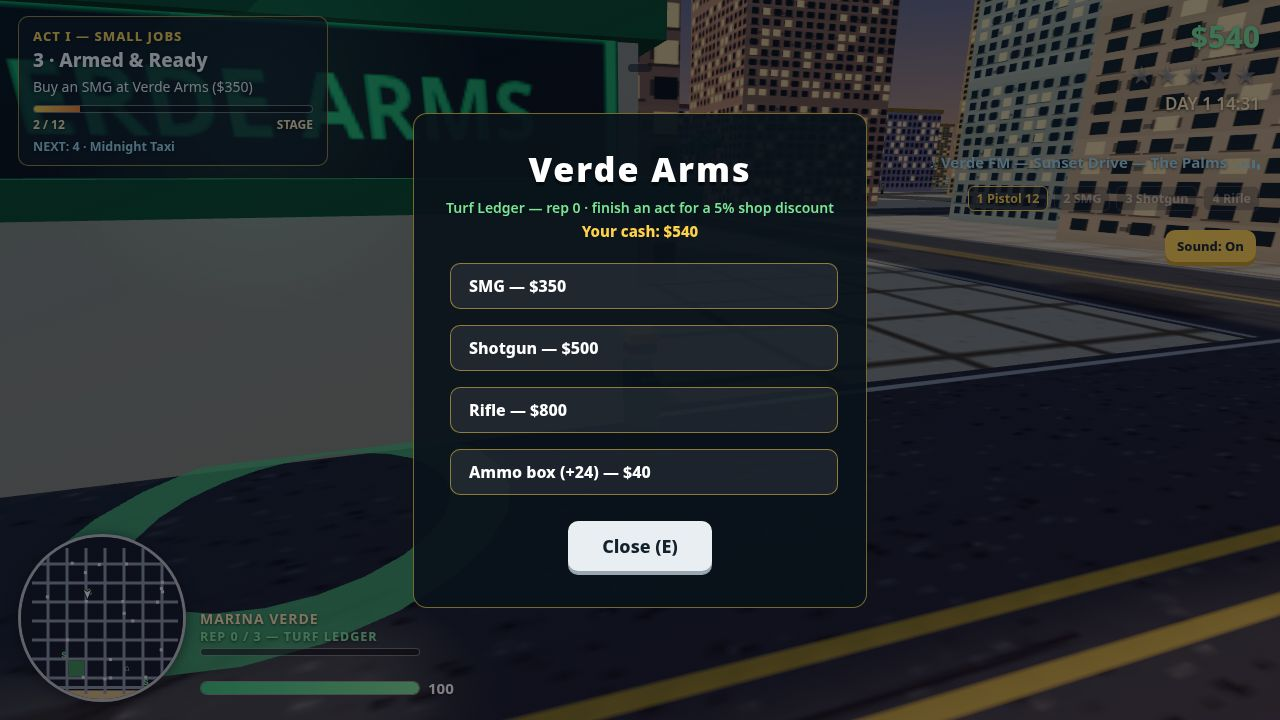
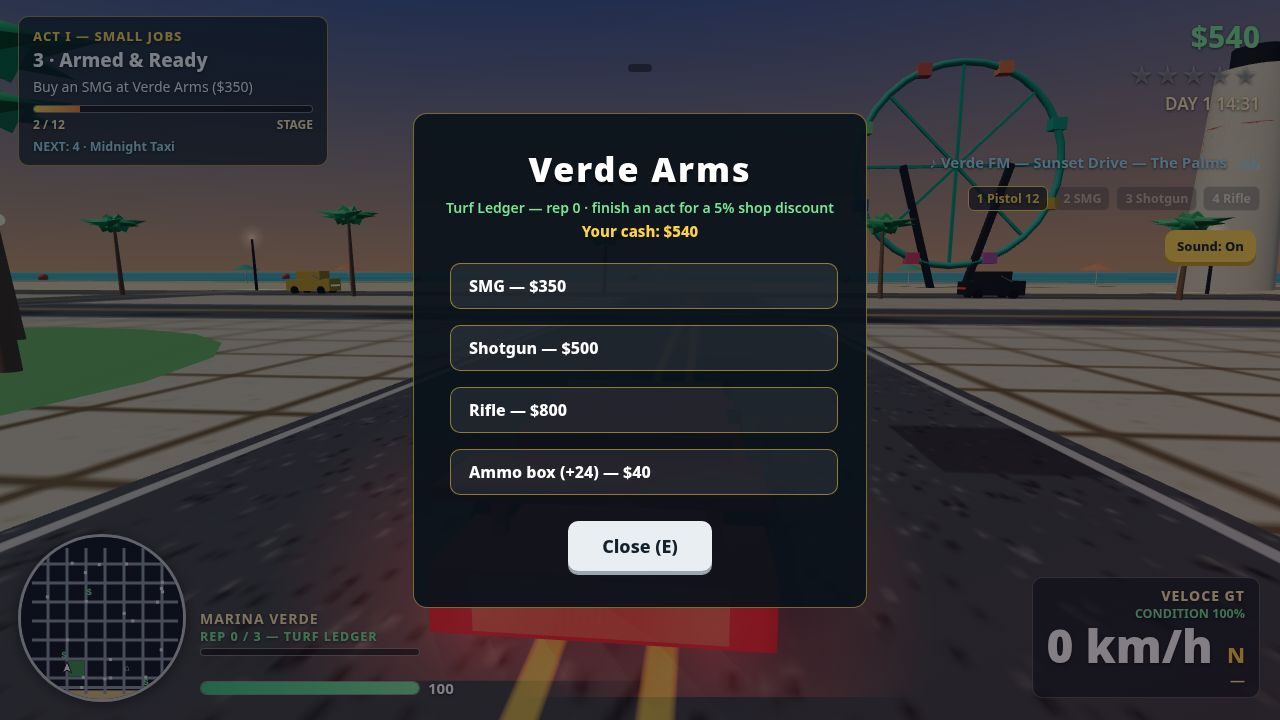
Marina Verde v2: graphics polish round 3 — bright car rear, readable heli, beachfront street with ferris wheel + beach
R1: sport cabin/spoiler/struts reuse per-car bodyMat (repaint follows),
windshield shared glass 0x7896a6; tail bar + halo untouched, no new mesh.
R2: heli body 0x9aa7b0, navy fin 0x1c2733, staged closer (orbit radius
18, height 10) so body + skids + nav light read instead of a black blob.
R3: street staging moved to beachfront road x=-104 heading south (the
wheel faces N/S — heading west would be edge-on); ferris wheel + beach
read past the Verde Arms panel (rim top 54px above panel top, arc +
gondolas + legs + sand/water/umbrellas visible; mission 3, $540, Verde
FM kept). All staging/camera only in ?shot= branches.
Perf (SwiftShader, baseline 45e05c9 re-run median 2683ms/p95 3517ms):
final median 2883/1767ms, p95 3883/3083ms over two runs — noisy, no
regression vs round 2 measured in-session (2900/3817ms). Draw calls
cover 264/chase 250/street 86/hud 115 (street 496->86, others = round 2).
Playtest 93/93 PASS, 0 errors; main.ts 2x byte-identical; offline PASS.

diff --git a/game/src/shots.js b/game/src/shots.js
@@ -143,31 +143,70 @@ export function stageShot(name, game, ctx) {
 
   if (name === 'street') {
     // Verde Arms open over the street (SCREENSHOTS.md §4.3): mission 3,
-    // Nico at the gun shop door, the real shop UI open, cash line visible.
-    // Polish 2: bright midday (14:31, like the coastal-day concept) so the
-    // street reads as siang cerah, not dusk.
+    // Nico in the VELOCE GT, the real shop UI open, cash line visible.
+    // Polish 3 R3: staging moved to the BEACHFRONT so the shot is bright
+    // midday (14:31) AND the ferris wheel + beach read in frame.
+    // Wheel geometry (measured, not assumed): the wheel at (-138, 208)
+    // is a torus in the XY plane — it faces NORTH/SOUTH, so from the east
+    // (heading west along the beachfront road) it is EDGE-ON, a sliver.
+    // It only reads face-on looking SOUTH. So the car sits on the
+    // north-south road x=-104 heading SOUTH, camera behind it looking
+    // south-southwest at the wheel (~80 m away, face-on), NOT west.
+    // Audit (Polish 3 §8.4, verified in main.js/shops.js/missions.js):
+    // openShop only sets state='shop'; in that state update() never runs,
+    // so no mission step, police, traffic or proximity check can move the
+    // player, close the shop, or touch cash; closeShop only restores
+    // state='playing' (no teleport, no car change); buyItem only runs on a
+    // click (capture never clicks); startMission only sets index/step. The
+    // staging + camera below live ONLY in this ?shot= branch.
     world.setSkyMode('day');
     game.clock = 14 * 60 + 31;
     startMission(game.missions, game, 2);
     noBanner(game);
-    placePlayer(game, -48.2, -74, Math.PI);
+    const car = spawnSportsCoupe();
+    car.x = -104;
+    car.z = 128;
+    car.heading = 0; // south, down the x=-104 road toward the beach
+    car.mesh.position.set(-104, 0, 128);
+    car.mesh.rotation.y = 0;
+    placePlayer(game, -104, 128, 0);
+    enterCar(car);
+    game.playerCar.speed = 0;
+    game.playerCar.health = 100;
     game.money = 540;
     game.radio.station = 0; // Verde FM
-    // Look EAST down the gunshop road (z=-78) instead of north at a dark
-    // shop wall: the street stays alive at the frame edges — road markings,
-    // a parked car, a lamp, market stalls in the distance. The shop panel
-    // covers the centre, so the life has to live at the edges.
-    game.cameraYaw = Math.PI / 2 - 0.3;
-    game.cameraPitch = 0.3;
-    // One parked car on the south lane, right of frame past the panel.
+    // Camera: 6 m behind the car, ~2.5 m up, looking 8.6° down — close
+    // enough that the VELOCE GT's red rear + tail bar peek out BELOW the
+    // shop panel (at 10.5 m the whole car hid behind it), while the wheel
+    // rim top (~29 m at ~87 m) still lands near the top of the frame,
+    // above the shop panel; the wheel sits right of the panel so its
+    // right leg + side gondolas stay visible past the panel edge.
+    // Yaw +0.10 rad points the lens south-southwest at the wheel.
+    game.cameraDistOverride = 6.0;
+    game.cameraPitch = 0.15;
+    game.cameraYaw = 0.10;
+    // Street life at the frame edges, past the panel: a parked car on the
+    // beachfront road (right, below the wheel) + a yellow taxi crossing
+    // it (left). Both frozen: the game is paused while the shop is open.
     const parked = game.allCars.find((c) => c.driver === null && !c.isPolice);
     if (parked) {
-      parked.x = -24;
-      parked.z = -82.6;
-      parked.heading = Math.PI / 2;
-      parked.mesh.position.set(-24, 0, -82.6);
-      parked.mesh.rotation.y = Math.PI / 2;
+      parked.x = -130;
+      parked.z = 178;
+      parked.heading = -Math.PI / 2;
+      parked.mesh.position.set(-130, 0, 178);
+      parked.mesh.rotation.y = -Math.PI / 2;
     }
+    game.trafficCars.slice(0, 1).forEach((tc) => {
+      tc.x = -64;
+      tc.z = 182;
+      tc.heading = -Math.PI / 2;
+      tc.speed = 0;
+      tc.ai.axis = 'x';
+      tc.ai.dir = -1;
+      tc.mesh.userData.bodyMat.color.setHex(0xf2c230);
+      tc.mesh.position.set(tc.x, 0, tc.z);
+      tc.mesh.rotation.y = tc.heading;
+    });
     const shop = SHOPS.find((s) => s.id === 'gunshop');
     openShop(shop);
     game.objective = '3 · Armed & Ready: Buy an SMG at Verde Arms ($350)';
@@ -222,9 +261,18 @@ export function stageShot(name, game, ctx) {
   game.wanted.stars = 4;
   game.wanted.heat = 0;
   spawnHeliIfNeeded();
-  game.heli.angle = 0.45; // ahead-right of the chase cam (looking east):
-  // the heli must be IN the frame, not behind the camera
-  game.heli.height = 12; // high enough to read as a helicopter, low enough to stay in frame
+  // Polish 3 R2: angle 0.45, height 10, radius 18 (was 12 / 26). Round-2
+  // angle -0.45 hid the heli behind the billboard; 0.45 keeps it clear
+  // top-right. The smaller orbit radius (staging-only) puts the heli
+  // ~27 m from the camera instead of ~35 m, so the body + skids + nav
+  // light read at ~100 px instead of a distant grey ball — the light-grey
+  // body (0x9aa7b0), red stripe, navy fin and dark rotor from
+  // helicopter.js do the rest. (The tail still points away from a chase
+  // cam; the rotor blades are thin and their phase at capture varies.) Orbit height/radius are shot staging;
+  // gameplay orbit (30 m / 26 m) is untouched.
+  game.heli.angle = 0.45;
+  game.heli.height = 10;
+  game.heli.radius = 18;
   spawnPoliceIfNeeded();
   // Police AHEAD of the player (east, in the camera's field of view) in a
   // tight echelon — the chase cam sits WEST of the car looking east, so

diff --git a/game/src/vehicles.js b/game/src/vehicles.js
@@ -33,6 +33,10 @@ const SHARED_GEO = {
 };
 const SHARED_MAT = {
   dark: new THREE.MeshLambertMaterial({ color: 0x1c2733 }),
+  // Polish 3 R1 (Sol): shared windshield glass — opaque blue-grey, no
+  // transparency (transparency would cost a draw-call sort + fill). Shared
+  // and immutable, so every car reuses it.
+  glass: new THREE.MeshStandardMaterial({ color: 0x7896a6, roughness: 0.35, metalness: 0.0 }),
   wheel: new THREE.MeshLambertMaterial({ color: 0x141414 }),
   head: new THREE.MeshBasicMaterial({ color: 0xfff6c0 }),
   tail: new THREE.MeshBasicMaterial({ color: 0xff2a2a }),
@@ -70,13 +74,18 @@ export function makeCarMesh(color, isPolice = false, style = 'sedan', opts = {})
   body.castShadow = true;
   group.add(body);
   // Sloped windshield plane + cabin (beveled look, not a plain box).
-  const shield = new THREE.Mesh(SHARED_GEO.shield, darkMat);
+  // Polish 3 R1 (Sol): the windshield is shared glass 0x7896a6; the cabin
+  // metal (sport + van) reuses this car's own bodyMat — NOT a new red
+  // material — so a garage repaint recolours cabin + spoiler + struts too.
+  // SHARED_MAT.dark is never mutated. The rear deck is the body's own top
+  // face (bodyMat); no extra panel mesh.
+  const shield = new THREE.Mesh(SHARED_GEO.shield, SHARED_MAT.glass);
   shield.position.set(0, bodyY + visH / 2 + 0.28, isSport ? 0.95 : 0.85);
   shield.rotation.x = isSport ? 0.62 : 0.5;
   group.add(shield);
   const cabin = new THREE.Mesh(
     isVan ? SHARED_GEO.cabin.van : SHARED_GEO.cabin.sedan,
-    isVan ? bodyMat : darkMat,
+    (isVan || isSport) ? bodyMat : darkMat,
   );
   cabin.position.set(0, bodyY + visH / 2 + (isVan ? 0.45 : 0.28), isVan ? 0 : isSport ? -0.35 : -0.25);
   if (isSport) cabin.scale.set(1, 0.85, 0.95);
@@ -91,12 +100,13 @@ export function makeCarMesh(color, isPolice = false, style = 'sedan', opts = {})
   group.add(hood);
   if (isSport) {
     // Spoiler on the sport style — wider + deeper wing, on taller struts.
-    const spoiler = new THREE.Mesh(SHARED_GEO.spoiler, darkMat);
+    // Polish 3 R1 (Sol): spoiler + struts reuse bodyMat (repaint follows).
+    const spoiler = new THREE.Mesh(SHARED_GEO.spoiler, bodyMat);
     spoiler.scale.set(1.12, 1, 1.7);
     spoiler.position.set(0, bodyY + 0.72, -len / 2 + 0.25);
     group.add(spoiler);
     for (const s of [-0.7, 0.7]) {
-      const strut = new THREE.Mesh(SHARED_GEO.strut, darkMat);
+      const strut = new THREE.Mesh(SHARED_GEO.strut, bodyMat);
       strut.scale.set(1, 1.25, 1);
       strut.position.set(s, bodyY + 0.55, -len / 2 + 0.25);
       group.add(strut);

diff --git a/game/src/helicopter.js b/game/src/helicopter.js
@@ -10,11 +10,16 @@ export function helicopterDemand(stars) {
 
 export function createHelicopter(scene, haloTex = null) {
   const group = new THREE.Group();
-  // Polish 2 Q6: dark MVPD body (was pale grey 0xd8dee2 — read as a grey
-  // ball at distance), red stripe, brighter glass. Same part count + tail
-  // fin; the searchlight cone is stronger; a ground shadow blob tracks the
-  // heli (1 extra draw call, no new light). Detection logic untouched.
-  const bodyMat = new THREE.MeshStandardMaterial({ color: 0x232a33, roughness: 0.4, metalness: 0.35 });
+  // Polish 3 R2 (Sol): light-grey MVPD body 0x9aa7b0 so the heli reads from
+  // below against a bright sky (was dark slate 0x232a33 — a black blob).
+  // No separate belly mesh: body is one mesh / one material, and a belly
+  // mesh would add a draw call with no measured saving (Sol fallback:
+  // body 0x9aa7b0 first). Metalness lowered 0.35 -> 0.1: with no env map,
+  // metalness only darkens the paint. Stripe stays 0xd94040 at 3.6x0.8,
+  // glass stays 0x9fd8e8, rotor 0x222222, nav halo scale 2.4, blur disc
+  // stays deleted. No MVPD text marking exists on the heli (only HUD
+  // panels carry the name) — none added, no label mesh.
+  const bodyMat = new THREE.MeshStandardMaterial({ color: 0x9aa7b0, roughness: 0.4, metalness: 0.1 });
   // Rounded body: cylinder with sphere ends (capsule-ish), not a box.
   const body = new THREE.Mesh(new THREE.CylinderGeometry(1.5, 1.5, 4.2, 16), bodyMat);
   body.rotation.x = Math.PI / 2;
@@ -51,10 +56,10 @@ export function createHelicopter(scene, haloTex = null) {
   const tailRotor = new THREE.Mesh(new THREE.BoxGeometry(0.12, 2.4, 0.3), new THREE.MeshLambertMaterial({ color: 0x888888 }));
   tailRotor.position.set(0.4, 0.4, -7);
   group.add(tailRotor);
-  // Tail fin (dark, MVPD livery).
+  // Tail fin (navy 0x1c2733, MVPD livery — Polish 3 R2).
   const tailFin = new THREE.Mesh(
     new THREE.BoxGeometry(0.12, 1.8, 1.4),
-    new THREE.MeshLambertMaterial({ color: 0x232a33 }),
+    new THREE.MeshLambertMaterial({ color: 0x1c2733 }),
   );
   tailFin.position.set(0, 1.1, -6.9);
   group.add(tailFin);
